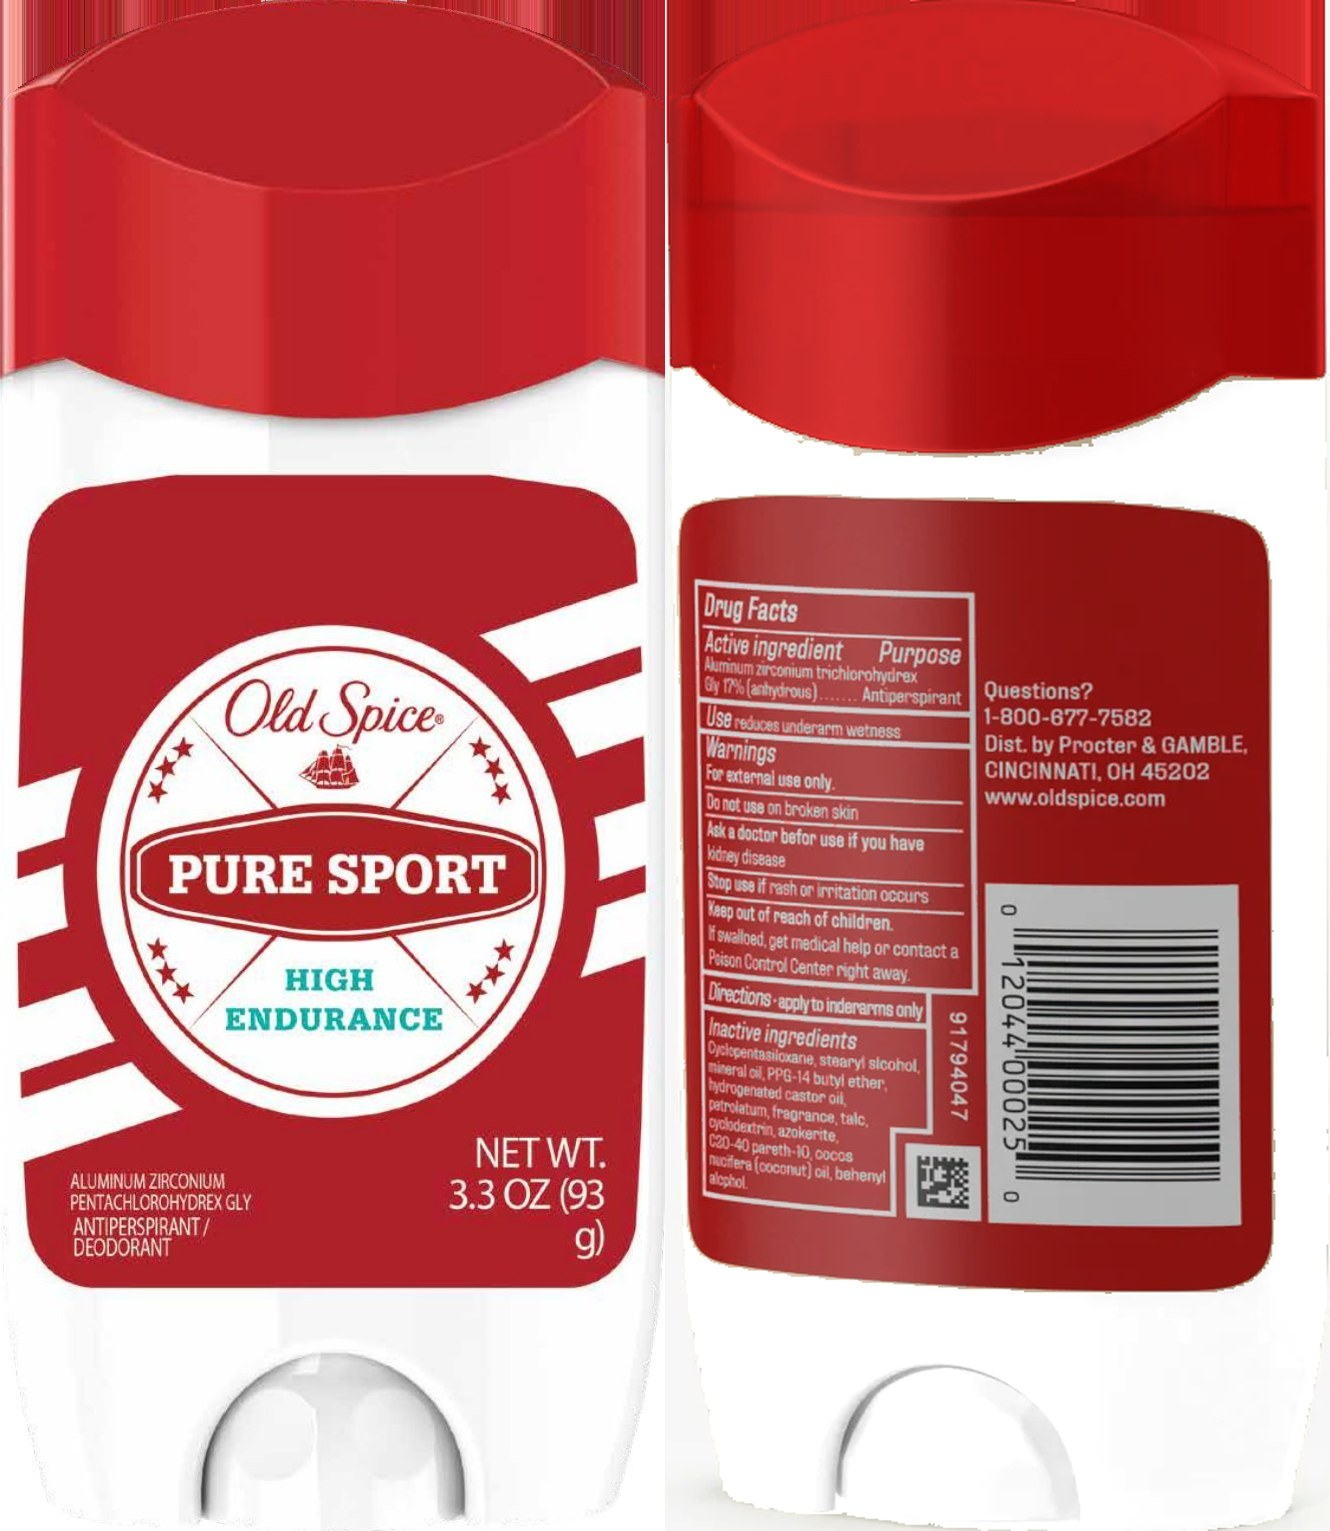
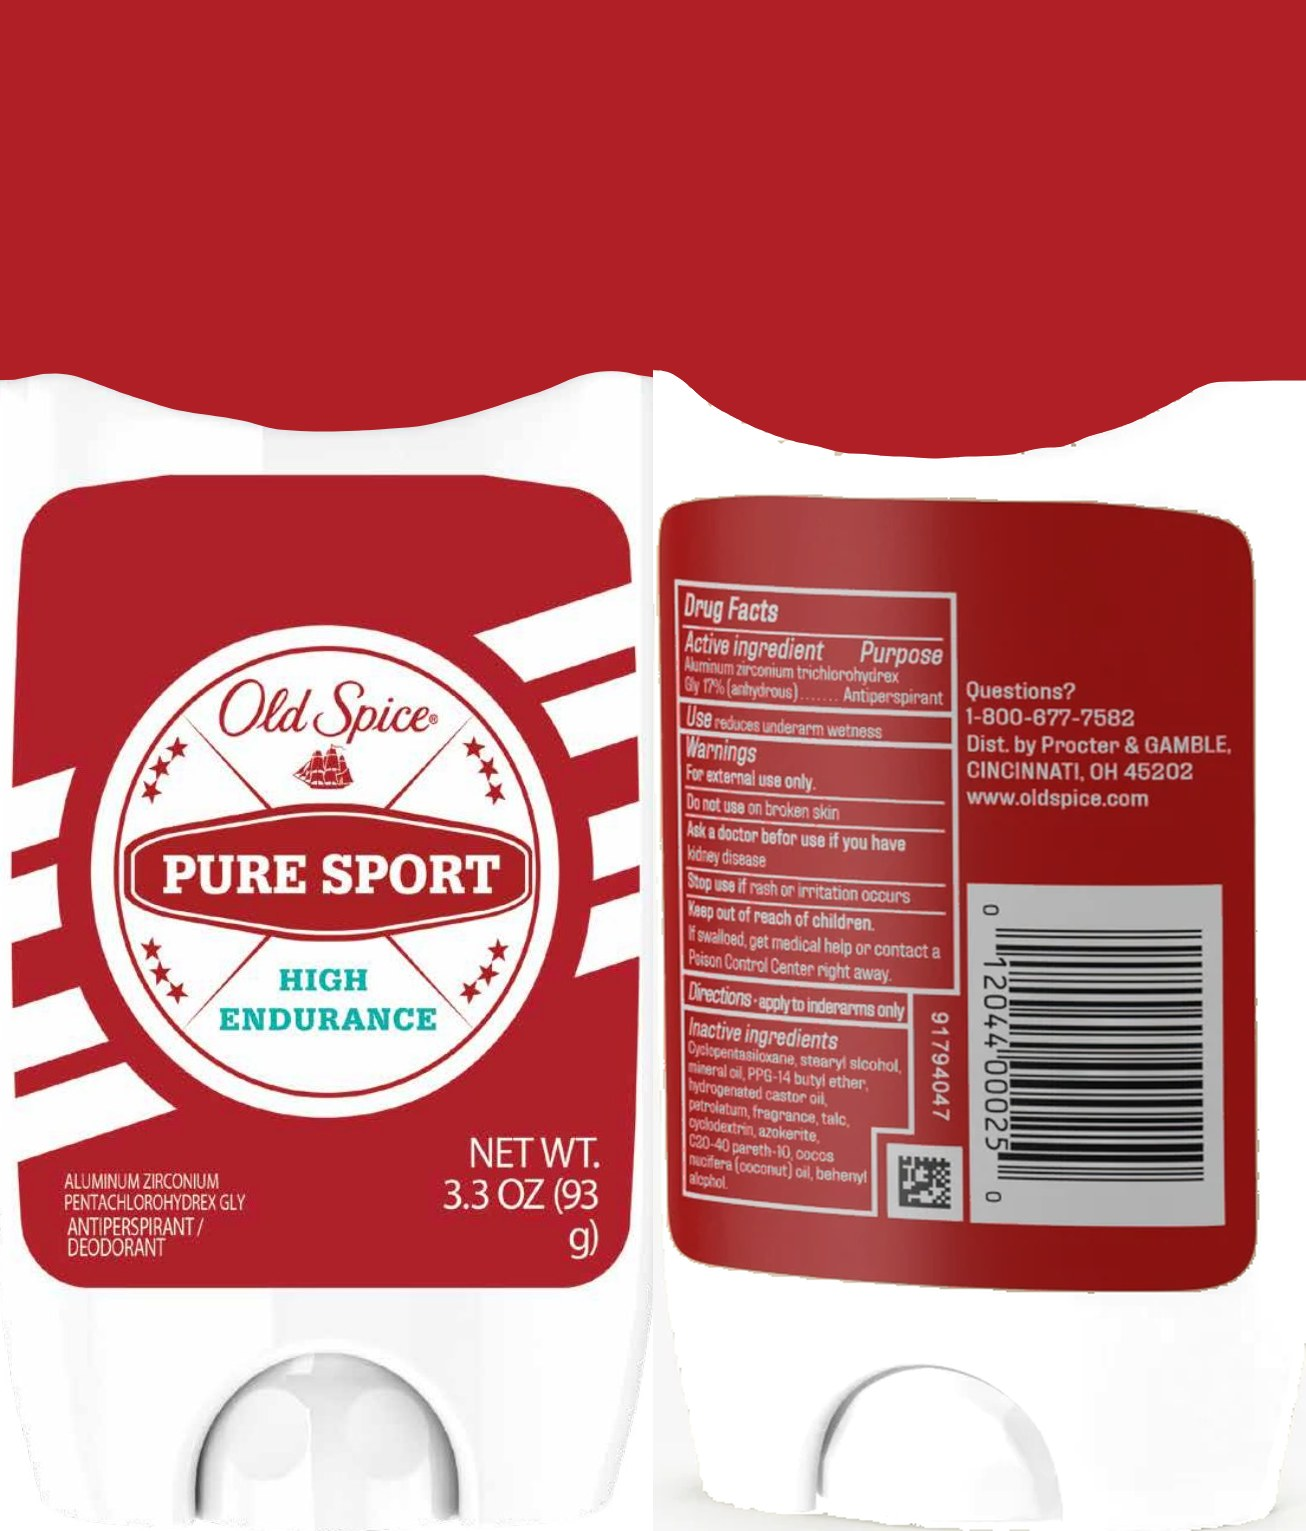
Old Spice 3D stick: seamless front and sculpted cap
The cross-section is now a superellipse, so the front is one smooth curve
with no flat-to-round seam breaking the label. The cap top swoops down
toward the front and back like the real Old Spice cap, with smooth
shading; the cap's printed shading is flattened to solid red so the
lighting shows the shape.

Claude-Session: https://claude.ai/code/session_01ReK3oetAUspUe8FcLJQjyp

diff --git a/js/deodorant.js b/js/deodorant.js
@@ -28,29 +28,34 @@
   rim.position.set(-4, 2, -3);
   scene.add(rim);
 
-  // Stick proportions follow the art (665 x 1531 px); depth is a typical stick's
+  // Stick proportions follow the art (653 x 1531 px); depth is a typical stick's
   const W = 1.3;
-  const H = W * (1531 / 665);
-  const D = 0.62;
-  const BEVEL = 0.06;
+  const H = W * (1531 / 653);
+  const D = 0.6;
+  const BEVEL = 0.07;
+  const CAP = 0.26; // the cap is the top quarter of the art
 
-  // Cross-section: a stadium (flat front and back, round ends), extruded upward
-  const r = D / 2;
-  const half = W / 2 - r;
+  // Cross-section: a superellipse, so the front is one smooth gentle curve that rolls
+  // into rounded ends (no flat-to-round seam to break the label)
   const shape = new THREE.Shape();
-  shape.moveTo(-half, -r);
-  shape.lineTo(half, -r);
-  shape.absarc(half, 0, r, -Math.PI / 2, Math.PI / 2, false);
-  shape.lineTo(-half, r);
-  shape.absarc(-half, 0, r, Math.PI / 2, Math.PI * 1.5, false);
+  const N = 3.6, SEGS = 160;
+  for (let i = 0; i <= SEGS; i++) {
+    const t = (i / SEGS) * Math.PI * 2;
+    const c = Math.cos(t), s = Math.sin(t);
+    const x = (W / 2 - BEVEL) * Math.sign(c) * Math.pow(Math.abs(c), 2 / N);
+    const z = (D / 2 - BEVEL) * Math.sign(s) * Math.pow(Math.abs(s), 2 / N);
+    if (i === 0) shape.moveTo(x, z);
+    else shape.lineTo(x, z);
+  }
 
   const geo = new THREE.ExtrudeGeometry(shape, {
     depth: H - BEVEL * 2,
+    steps: 48, // rows up the sides so the cap can bend
     bevelEnabled: true,
     bevelThickness: BEVEL,
     bevelSize: BEVEL,
-    bevelSegments: 4,
-    curveSegments: 32,
+    bevelSegments: 6,
+    curveSegments: 1,
   });
   geo.rotateX(-Math.PI / 2); // extrude along y instead of z
   geo.computeBoundingBox();
@@ -73,13 +78,44 @@
     const back = pos.getZ(i) + pos.getZ(i + 1) + pos.getZ(i + 2) < 0;
     for (let j = i; j < i + 3; j++) {
       const ny = nrm.getY(j);
-      if (ny > 0.95) { uv.setXY(j, back ? 0.75 : 0.25, 0.97); continue; } // cap red
-      if (ny < -0.95) { uv.setXY(j, back ? 0.75 : 0.25, 0.02); continue; } // base white
-      const u = (pos.getX(j) - bb.min.x) / spanX;
+      if (ny > 0.9) { uv.setXY(j, back ? 0.75 : 0.25, 0.99); continue; } // cap red
+      if (ny < -0.9) { uv.setXY(j, back ? 0.75 : 0.25, 0.01); continue; } // base white
+      const u = Math.min(Math.max((pos.getX(j) - bb.min.x) / spanX, 0.004), 0.996);
       uv.setXY(j, back ? 0.5 + (1 - u) * 0.5 : u * 0.5, (pos.getY(j) - bb.min.y) / spanY);
     }
   }
   uv.needsUpdate = true;
+
+  // Old Spice's sculpted cap: the top rides high along the left-right ridge and the
+  // ends, and swoops down toward the front and back faces in the middle
+  const DIP = 0.34;
+  const capFrom = bb.max.y - spanY * CAP;
+  for (let i = 0; i < pos.count; i++) {
+    const y = pos.getY(i);
+    if (y <= capFrom) continue;
+    const k = Math.pow((y - capFrom) / (bb.max.y - capFrom), 2.2);
+    const fx = pos.getX(i) / (W / 2), fz = pos.getZ(i) / (D / 2);
+    pos.setY(i, y - DIP * k * fz * fz * Math.max(0, 1 - fx * fx));
+  }
+
+  // Smooth shading: average the face normals of every corner that shares a point
+  const sums = new Map();
+  const keyOf = (i) => pos.getX(i).toFixed(4) + "," + pos.getY(i).toFixed(4) + "," + pos.getZ(i).toFixed(4);
+  const a = new THREE.Vector3(), b = new THREE.Vector3(), c = new THREE.Vector3(), n = new THREE.Vector3();
+  for (let i = 0; i < pos.count; i += 3) {
+    a.fromBufferAttribute(pos, i); b.fromBufferAttribute(pos, i + 1); c.fromBufferAttribute(pos, i + 2);
+    n.subVectors(c, b).cross(b.clone().sub(a)).negate(); // area-weighted face normal
+    for (let j = i; j < i + 3; j++) {
+      const k = keyOf(j);
+      const s = sums.get(k);
+      if (s) s.add(n); else sums.set(k, n.clone());
+    }
+  }
+  for (let i = 0; i < pos.count; i++) {
+    const s = sums.get(keyOf(i)).clone().normalize();
+    nrm.setXYZ(i, s.x, s.y, s.z);
+  }
+  nrm.needsUpdate = true;
 
   const tex = new THREE.TextureLoader().load(stage.dataset.texture, render);
   tex.encoding = THREE.sRGBEncoding;

diff --git a/old-spice.html b/old-spice.html
@@ -49,7 +49,7 @@
     </dl>
 
     <!-- Pure Sport stick in 3D: drag to spin it -->
-    <div class="product-3d" data-product-3d data-texture="assets/images/old-spice/pure-sport-wrap.jpg">
+    <div class="product-3d" data-product-3d data-texture="assets/images/old-spice/pure-sport-wrap.jpg?v=2">
       <canvas class="product-3d__canvas" role="img" aria-label="3D model of the redesigned Old Spice Pure Sport deodorant stick. Drag to rotate it."></canvas>
       <p class="product-3d__hint" aria-hidden="true">Drag to spin</p>
     </div>
@@ -69,7 +69,7 @@
   </footer>
 
   <script src="js/vendor/three.min.js?v=149"></script>
-  <script src="js/deodorant.js?v=121"></script>
+  <script src="js/deodorant.js?v=122"></script>
   <script src="js/main.js?v=119"></script>
 </body>
 </html>
